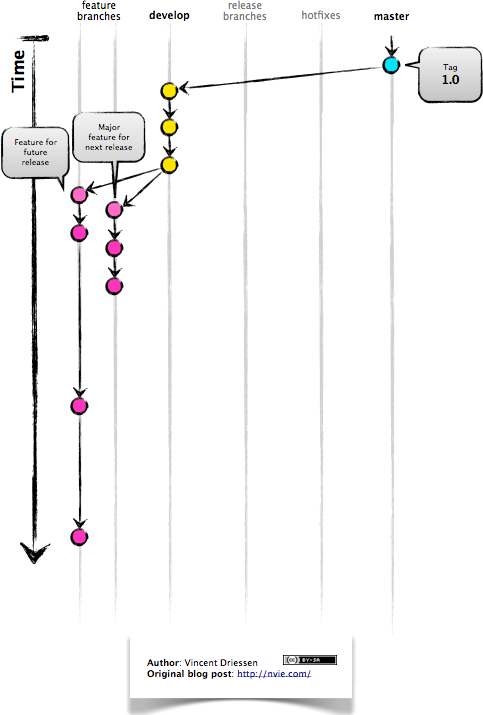
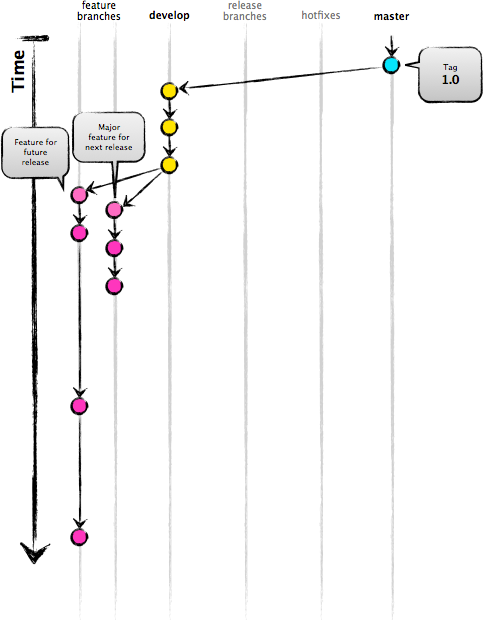
.

diff --git a/Lectures/Lecture05/PITCHME.md b/Lectures/Lecture05/PITCHME.md
@@ -733,32 +733,32 @@ public class TestClass2
 ### How GitFlow Works 1/5
 * New development is built in **feature branches**
 
-@img[span-30](/Lectures/Lecture05/Assets/img/GitFlow1.png)
+@img[span-35](/Lectures/Lecture05/Assets/img/GitFlow1.png)
 
 +++
 ### How GitFlow Works 2/5
 * Feature branches are branched off of the **develop branch**
 * Finished features and fixes are merged back into the **develop branch**
 
-@img[span-30](/Lectures/Lecture05/Assets/img/GitFlow2.png)
+@img[span-35](/Lectures/Lecture05/Assets/img/GitFlow2.png)
 
 +++
 ### How GitFlow Works 3/5
 * When it is time to make a release, a **release branch** is created off of **develop**
 
-@img[span-30](/Lectures/Lecture05/Assets/img/GitFlow3.png)
+@img[span-35](/Lectures/Lecture05/Assets/img/GitFlow3.png)
 
 +++
 ### How GitFlow Works 4/5
 * When the release is finished, the **release branch** is merged into **master and** into **develop** too
 
-@img[span-30](/Lectures/Lecture05/Assets/img/GitFlow4.png)
+@img[span-35](/Lectures/Lecture05/Assets/img/GitFlow4.png)
 
 +++
 ### How GitFlow Works 5/5
 * **Hotfix branches** are used to create emergency fixes
 
-@img[span-30](/Lectures/Lecture05/Assets/img/GitFlow5.png)
+@img[span-35](/Lectures/Lecture05/Assets/img/GitFlow5.png)
 
 +++
 todo
